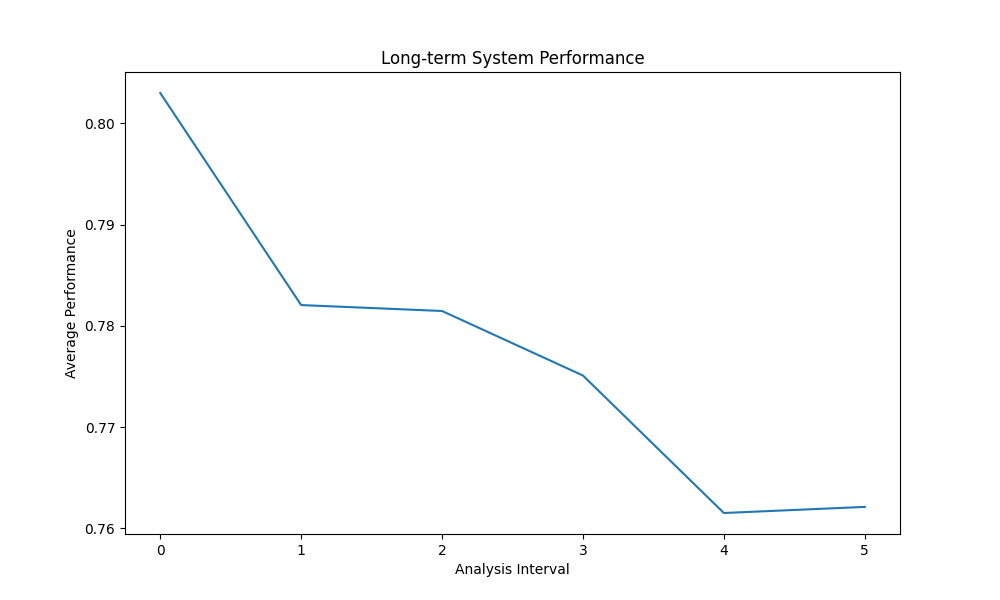
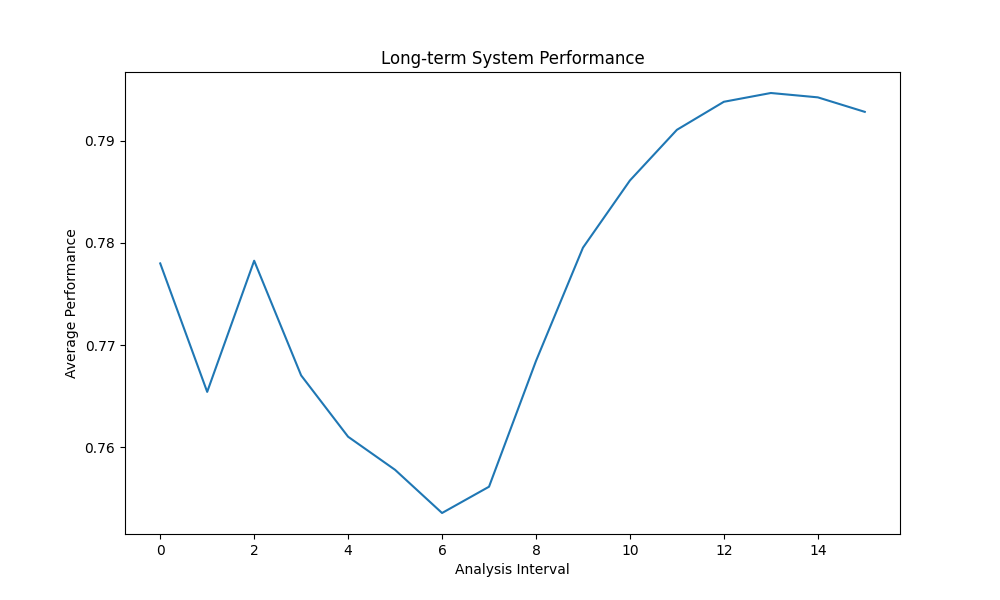
Backengine code update

diff --git a/collaborative_intelligence.py b/collaborative_intelligence.py
@@ -24,11 +24,16 @@ class Agent:
         self.total_tasks_processed = 0
         self.specialization_strength = 1.0
         self.knowledge_specialization = defaultdict(float)
+        self.expertise_level = {
+            "classification": 1,
+            "regression": 1,
+            "clustering": 1
+        }
 
     async def process_task(self, task: Task) -> Tuple[str, float]:
-        processing_time = task.complexity * (1 / self.reputation)
+        processing_time = task.complexity * (1 / self.reputation) * (1 / self.expertise_level[task.domain])
         await asyncio.sleep(processing_time)
-        success_probability = min(1.0, (self.reputation * self.specialization_strength) / task.complexity)
+        success_probability = min(1.0, (self.reputation * self.specialization_strength * self.expertise_level[task.domain]) / task.complexity)
         success = random.random() < success_probability
         result = 1.0 if success else 0.0
         self.task_history.append((task.task_id, result))
@@ -39,6 +44,7 @@ class Agent:
         if success:
             self.generate_knowledge(task)
             self.update_specialization_strength(task.domain, 0.1)
+            self.increase_expertise(task.domain)
         else:
             self.update_specialization_strength(task.domain, -0.05)
         
@@ -46,7 +52,7 @@ class Agent:
 
     def generate_knowledge(self, task: Task):
         knowledge_key = f"{task.domain}_technique_{random.randint(1, 100)}"
-        confidence = random.uniform(0.6, 1.0)
+        confidence = random.uniform(0.6, 1.0) * self.expertise_level[task.domain]
         self.knowledge_base[knowledge_key] = {
             'content': f"Learned technique for {task.domain} tasks",
             'confidence': confidence,
@@ -92,6 +98,9 @@ class Agent:
     def should_request_information(self, current_time: int) -> bool:
         return current_time - self.last_information_request >= 7
 
+    def increase_expertise(self, domain: str):
+        self.expertise_level[domain] = min(10, self.expertise_level[domain] + 0.1)
+
 class MultiAgentSystem:
     def __init__(self, agents: List[Agent]):
         self.agents = agents
@@ -109,26 +118,34 @@ class MultiAgentSystem:
 
     async def allocate_tasks(self, tasks: List[Task]):
         agent_workloads = {agent: len(agent.task_queue._queue) for agent in self.agents}
+        domain_workloads = defaultdict(int)
+        for task in tasks:
+            domain_workloads[task.domain] += 1
+
         for task in tasks:
             suitable_agents = [agent for agent in self.agents if agent.specialization == task.domain]
             if not suitable_agents:
                 suitable_agents = self.agents
-            chosen_agent = self._choose_agent_for_task(suitable_agents, task, agent_workloads)
+            chosen_agent = self._choose_agent_for_task(suitable_agents, task, agent_workloads, domain_workloads)
             await chosen_agent.task_queue.put(task)
             agent_workloads[chosen_agent] += 1
+            domain_workloads[task.domain] -= 1
         self.log.append(f"Time {self.current_time}: Allocated {len(tasks)} tasks")
 
-    def _choose_agent_for_task(self, agents: List[Agent], task: Task, agent_workloads: Dict[Agent, int]) -> Agent:
+    def _choose_agent_for_task(self, agents: List[Agent], task: Task, agent_workloads: Dict[Agent, int], domain_workloads: Dict[str, int]) -> Agent:
         agent_scores = []
-        avg_workload = max(1, sum(agent_workloads.values()) / len(agent_workloads))  # Ensure non-zero average
+        avg_workload = max(1, sum(agent_workloads.values()) / len(agent_workloads))
+        total_domain_workload = sum(domain_workloads.values())
         for agent in agents:
             performance_score = self._calculate_agent_performance(agent)
             workload_score = 1 / (1 + abs(agent_workloads[agent] - avg_workload))
             specialization_score = 2 if agent.specialization == task.domain else 1
             warm_up_score = min(1, (self.current_time - agent.creation_time) / 3)
-            integration_score = 3 if agent.total_tasks_processed < 50 else 1  # Increased boost for newer agents
+            integration_score = 3 if agent.total_tasks_processed < 50 else 1
             catch_up_score = 1 + max(0, (avg_workload - agent.total_tasks_processed) / avg_workload)
-            total_score = performance_score * workload_score * specialization_score * warm_up_score * integration_score * catch_up_score
+            domain_balance_score = domain_workloads[task.domain] / total_domain_workload if total_domain_workload > 0 else 1
+            expertise_score = agent.expertise_level[task.domain]
+            total_score = performance_score * workload_score * specialization_score * warm_up_score * integration_score * catch_up_score * domain_balance_score * expertise_score
             agent_scores.append((agent, total_score))
         chosen_agent = max(agent_scores, key=lambda x: x[1])[0]
         self.log.append(f"Time {self.current_time}: Chose {chosen_agent.agent_id} for task {task.task_id}")
@@ -264,7 +281,7 @@ class MultiAgentSystem:
             best_specialization = agent.get_best_specialization()
             if best_specialization != agent.specialization:
                 performance_diff = agent.get_performance_difference()
-                change_probability = min(1.0, performance_diff * 5)  # Increased change probability
+                change_probability = min(1.0, performance_diff * 10)  # Increased sensitivity
                 if random.random() < change_probability:
                     self.log.append(f"Time {self.current_time}: {agent.agent_id} changed specialization from {agent.specialization} to {best_specialization}")
                     self.specialization_changes.append((self.current_time, agent.agent_id, agent.specialization, best_specialization))
@@ -288,19 +305,27 @@ class MultiAgentSystem:
                 if trend < -0.01:
                     self.log.append(f"Time {self.current_time}: Long-term performance declining. Adjusting system parameters.")
                     self._adjust_system_parameters()
+                elif trend > 0.01:
+                    self.log.append(f"Time {self.current_time}: Long-term performance improving. Optimizing system parameters.")
+                    self._optimize_system_parameters()
 
     def _adjust_system_parameters(self):
-        # Example adjustments based on long-term performance decline
         for agent in self.agents:
-            agent.reputation *= 0.9  # Slightly reduce all agent reputations to encourage improvement
-        self.add_agent_threshold *= 0.95  # Make it slightly easier to add new agents
-        self.remove_agent_threshold *= 1.05  # Make it slightly harder to remove agents
+            agent.reputation *= 0.95  # Slightly reduce all agent reputations to encourage improvement
+        self.add_agent_threshold *= 0.98  # Make it slightly easier to add new agents
+        self.remove_agent_threshold *= 1.02  # Make it slightly harder to remove agents
+
+    def _optimize_system_parameters(self):
+        for agent in self.agents:
+            agent.reputation *= 1.05  # Slightly increase all agent reputations to reward good performance
+        self.add_agent_threshold *= 1.02  # Make it slightly harder to add new agents
+        self.remove_agent_threshold *= 0.98  # Make it slightly easier to remove agents
 
     async def run_simulation(self, num_steps: int):
         for _ in range(num_steps):
             self.current_time += 1
             
-            new_tasks = [Task(f"Task_{self.current_time}_{i}", random.uniform(0.3, 0.9), random.choice(["classification", "regression", "clustering"])) for i in range(5)]
+            new_tasks = [Task(f"Task_{self.current_time}_{i}", random.uniform(0.3, 1.5), random.choice(["classification", "regression", "clustering"])) for i in range(5)]
             await self.allocate_tasks(new_tasks)
             
             await self.process_all_tasks()

diff --git a/test_enhanced_collaborative_intelligence.py b/test_enhanced_collaborative_intelligence.py
@@ -17,7 +17,7 @@ async def test_enhanced_collaborative_intelligence():
 
     # Simulate initial tasks
     task_types = ["classification", "regression", "clustering"]
-    tasks = [Task(f"Task_{i}", random.uniform(0.3, 0.9), random.choice(task_types)) for i in range(50)]
+    tasks = [Task(f"Task_{i}", random.uniform(0.3, 1.5), random.choice(task_types)) for i in range(50)]
 
     print("\n1. Initial Task Allocation and Processing:")
     await mas.allocate_tasks(tasks)
@@ -28,9 +28,9 @@ async def test_enhanced_collaborative_intelligence():
         print(f"{agent.agent_id} reputation: {agent.reputation:.2f}")
 
     print("\n2. Extended Simulation:")
-    num_steps = 100  # Reduced simulation steps
+    num_steps = 200  # Increased simulation steps
     for step in range(num_steps):
-        if step % 10 == 0:
+        if step % 20 == 0:
             print(f"Step {step}/{num_steps}")
         await mas.run_simulation(1)
     final_performance = mas.evaluate_system_performance()
@@ -42,6 +42,7 @@ async def test_enhanced_collaborative_intelligence():
     for agent in mas.agents:
         print(f"{agent.agent_id} final specialization: {agent.specialization}")
         print(f"  Specialization strength: {agent.specialization_strength:.2f}")
+        print(f"  Expertise levels: {agent.expertise_level}")
 
     print("\n4. Knowledge Sharing Statistics:")
     for agent in mas.agents:
